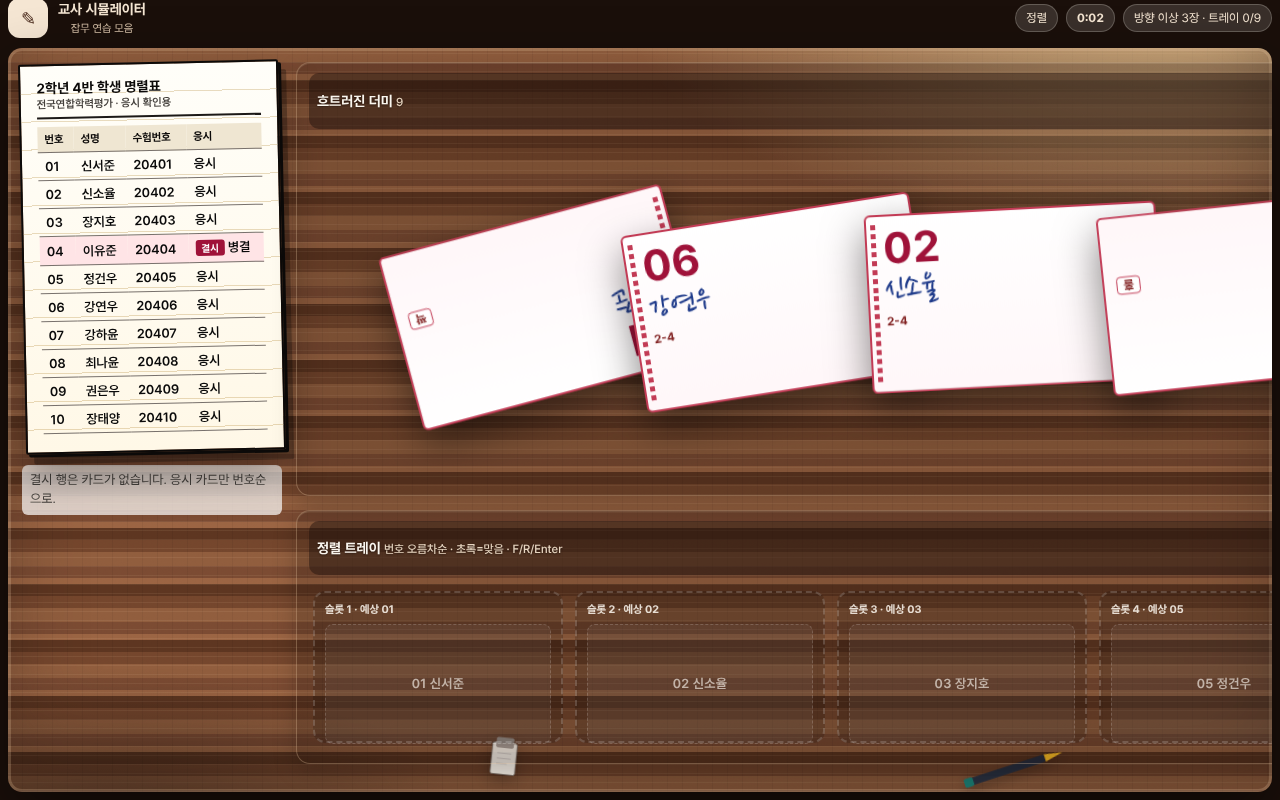
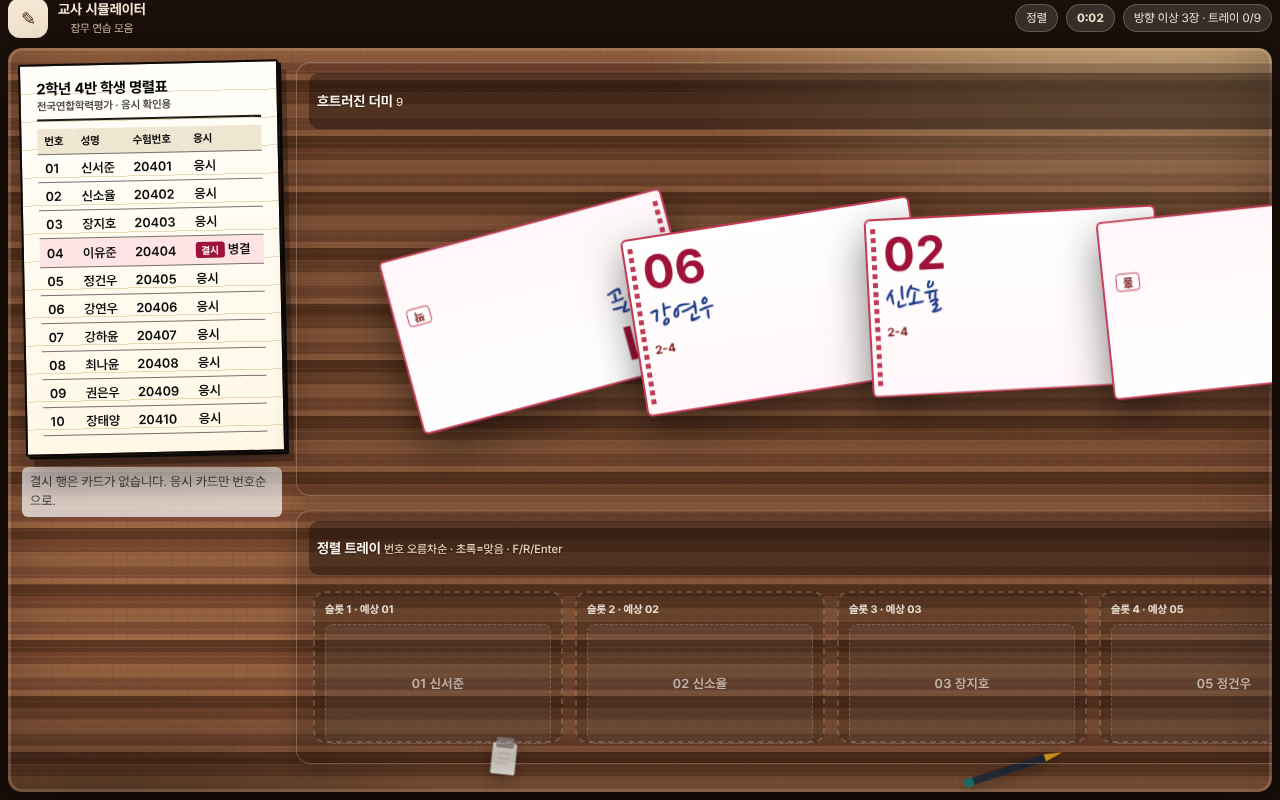
Round: screenshot index, toast polish, denser pile type
- docs/screenshots/README.md stage table
- Stronger pile thumb type; sticky tray zone head
- Toast fixed styling; roster title weight

diff --git a/src/style.css b/src/style.css
@@ -168,7 +168,7 @@ h2 { margin: 0 0 8px; font-size: 1.05rem; }
   -webkit-font-smoothing: antialiased;
 }
 .roster-sheet-head { border-bottom: 2.5px solid #1c1917; margin-bottom: 8px; padding-bottom: 6px; }
-.roster-sheet-head strong { display: block; font-size: 14px; color: #0c0a09; }
+.roster-sheet-head strong { display: block; font-size: 15px; color: #000; letter-spacing: -0.01em; }
 .roster-sheet-head span { font-size: 11px; color: #44403c; }
 .roster-sheet table { width: 100%; border-collapse: collapse; }
 .roster-sheet th, .roster-sheet td {
@@ -899,3 +899,21 @@ kbd {
 .pile-card.dragging, .tray-card.dragging { opacity: 0.45; }
 .tray-rail.drag-over { outline: 2px dashed #5eead4; outline-offset: 4px; border-radius: 12px; }
 .pile-area.drag-over { outline: 2px dashed #fde68a; outline-offset: 4px; border-radius: 12px; }
+
+/* pile denser round */
+.desk-work.has-pile .pile-area {
+  align-content: space-evenly;
+  padding-bottom: 12px;
+}
+.pile-card .thumb-no { font-size: 48px !important; line-height: 1; }
+.pile-card .thumb-name { font-size: 36px !important; line-height: 1.1; }
+.zone-head { flex-shrink: 0; }
+.tray-zone .zone-head { position: sticky; top: 0; z-index: 6; }
+
+/* toast polish */
+.toast {
+  position: fixed; left: 50%; bottom: 28px; transform: translateX(-50%);
+  background: #1c1917; color: #fafaf9; padding: 12px 18px; border-radius: 12px;
+  box-shadow: 0 12px 32px rgba(0,0,0,0.35); z-index: 100; font-weight: 600;
+  max-width: min(520px, 92vw);
+}

diff --git a/docs/screenshots/README.md b/docs/screenshots/README.md
@@ -1,0 +1,21 @@
+# Screenshots (latest overwrite)
+
+Captured by `npm run e2e` at **1280×800** unless noted.
+
+| File | Stage |
+|------|-------|
+| 01-hub.png | Hub with desk banner, tile icons, progress |
+| 02-difficulty.png | Difficulty pick |
+| 03-howto.png | How-to steps |
+| 04-headcount.png | Roster + headcount form |
+| 05-sorting-pile.png | Desk pile + empty tray slots |
+| 06-flip.png | Upside-down / face-down handling |
+| 07-sorting-tray.png | Filled tray with slot-ok feedback |
+| 08-inspection.png | OMR inspection layout |
+| 09-inspection-zoom.png | Zoom + magnifier lens |
+| 10-inspection-judged.png | After judgment |
+| 11-results.png | Score hero + meters |
+| 12-mobile-sorting.png | Narrow mobile |
+| 12-tablet-sorting.png | 1024×768 sorting |
+| 13-tablet-inspection.png | 1024×768 inspection |
+| 14-wrong-slot.png | slot-bad feedback (wrong order) |

diff --git a/docs/ROUNDLOG.md b/docs/ROUNDLOG.md
@@ -1,0 +1,10 @@
+# Round log (local polish overnight)
+
+| Time KST | Issue | Focus |
+|----------|-------|-------|
+| ~00:05 | 0017–0018 | Tray toolbar, desk wood, hub icons, magnifier e2e |
+| ~00:08 | 0019 | Hub 4-tile fit, magnifier math, horizontal wood |
+| ~00:10 | 0020 | Desk props, pile weight, tablet density |
+| ~00:12 | 0021–0022 | Results meters, kbd hints, wood noise |
+| ~00:13 | 0023 | Diff icons, drag-over, a11y |
+| (cont.) | 0024+ | Density, residual critique, final report prep |

diff --git a/docs/issues/0024-screenshot-index-toast.md b/docs/issues/0024-screenshot-index-toast.md
@@ -1,0 +1,7 @@
+# 0024 Screenshot index · toast polish · roster title weight
+
+## Fixes
+
+1. `docs/screenshots/README.md` lists all stage shots for the final report.
+2. Toast fixed bottom styling for feedback readability on dark desk.
+3. Roster title ink weight bumped.
